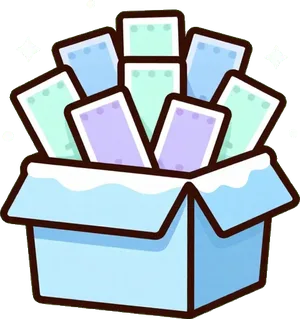
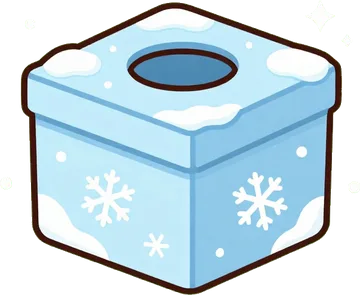
feat(ichiban): opening deal reworked — raffle box shakes in the middle, slides down, tickets burst 1-3 at a time
Claude-Session: https://claude.ai/code/session_01SemYkQLkTmSDDeYUKQcPZG

diff --git a/ichiban/js/desk-deal.js b/ichiban/js/desk-deal.js
@@ -1,19 +1,30 @@
-// 開場動畫(2026-10-02):籤從盒子裡一張一張飛出來排到桌上。全部是純函式。
+// 開場動畫(2026-10-02):抽獎箱搖一搖,籤從洞口一波 1~3 張飛出來排到桌上。全部是純函式。
 //
 // 只是演出,不存任何東西:桌面的最終排列(按鈕位置)在動畫開始前就算好了,
 // 這裡只回答「第幾毫秒、這張籤畫在哪裡」。
 
 export const FLIGHT_MS = 450;   // 每張飛多久
-const GAP_MS = 80;              // 張數少時,一張接一張的間隔
-const LAST_START_MS = 2500;     // 張數多時,最後一張最晚在這時候出發
+export const INTRO_MS = 900;    // 抽獎箱彈出 + 搖一搖,搖完才開始飛(CSS 的 deal-box-in 動畫要對得上)
+// 搖完、開始飛的同時,箱子往下滑到桌面底部,不擋在籤要飛過去的路上(使用者 2026-10-02)。
+// CSS 的 deal-box-down 動畫要對得上(ichiban.css)。
+export const SLIDE_MS = 400;
+const GAP_MS = 180;             // 張數少時,一波接一波的間隔
+const LAST_START_MS = 2500;     // 張數多時,最後一波最晚在搖完後這麼久出發
 const SPIN = 540;               // 飛行途中轉的角度(一圈半)
 
-// 照號碼排出發時間。張數多就縮短間隔,不讓小孩等十幾秒。
-export function dealPlan(slots) {
+// 一波 1~3 張同時從洞口飛出來(使用者:不用排隊,一次飛個 1~3 張),整體照號碼。
+// 張數多就縮短波與波的間隔,不讓小孩等十幾秒。rng 給測試固定用。
+export function dealPlan(slots, rng = Math.random) {
   const sorted = [...slots].sort((a, b) => a.no - b.no);
-  const n = sorted.length;
-  const gap = n > 1 ? Math.min(GAP_MS, LAST_START_MS / (n - 1)) : 0;
-  return sorted.map((s, i) => ({ ...s, start: Math.round(i * gap), duration: FLIGHT_MS }));
+  const waves = [];
+  for (let i = 0; i < sorted.length;) {
+    const size = 1 + Math.min(2, Math.floor(rng() * 3));
+    waves.push(sorted.slice(i, i + size));
+    i += size;
+  }
+  const gap = waves.length > 1 ? Math.min(GAP_MS, LAST_START_MS / (waves.length - 1)) : 0;
+  return waves.flatMap((wave, w) =>
+    wave.map(s => ({ ...s, start: Math.round(INTRO_MS + w * gap), duration: FLIGHT_MS })));
 }
 
 export function dealLength(plan) {
@@ -22,7 +33,7 @@ export function dealLength(plan) {
 
 const easeOut = t => 1 - (1 - t) ** 3;
 
-// t = 0 在盒口(很小),t = 1 落在格子裡(全尺寸、停在自己的歪斜角度)。
+// t = 0 在箱子的洞口(很小),t = 1 落在格子裡(全尺寸、停在自己的歪斜角度)。
 // 位置走拋物線:先往上彈再落下,彈多高跟飛多遠有關。
 export function flightAt(t, from, to, tilt) {
   const p = Math.min(1, Math.max(0, t));
@@ -36,4 +47,12 @@ export function flightAt(t, from, to, tilt) {
     scale: 0.25 + 0.75 * e,
     rot: tilt + (1 - e) * SPIN,
   };
+}
+
+// 箱子(洞口)在第 ms 毫秒的 y:搖的時候在 midY,開始飛之後 SLIDE_MS 內滑到 bottomY。
+// 籤從「出發那一刻」箱子洞口的位置飛出去。
+export function boxYAt(ms, midY, bottomY) {
+  const p = Math.min(1, Math.max(0, (ms - INTRO_MS) / SLIDE_MS));
+  const e = 1 - (1 - p) ** 2;
+  return midY + (bottomY - midY) * e;
 }

diff --git a/test/ichiban-deal.test.js b/test/ichiban-deal.test.js
@@ -1,26 +1,39 @@
 import test from 'node:test';
 import assert from 'node:assert/strict';
-import { dealPlan, flightAt, dealLength, FLIGHT_MS } from '../ichiban/js/desk-deal.js';
+import { dealPlan, flightAt, dealLength, boxYAt, FLIGHT_MS, INTRO_MS, SLIDE_MS } from '../ichiban/js/desk-deal.js';
 
 const slots = n => Array.from({ length: n }, (_, i) => ({ no: n - i }));   // 故意倒著給
 
-test('dealPlan:照號碼一張一張出發,張數少時間隔 80ms', () => {
-  const plan = dealPlan(slots(5));
-  assert.deepEqual(plan.map(p => p.no), [1, 2, 3, 4, 5]);
-  assert.deepEqual(plan.map(p => p.start), [0, 80, 160, 240, 320]);
+// 依序回傳給定的值,讓「每波幾張」可以預測
+const fixed = (...vals) => { let i = 0; return () => vals[i++ % vals.length]; };
+
+test('dealPlan:先搖箱子,再一波一波飛;每波 1~3 張同時出發,照號碼', () => {
+  // rng 0 → 1 張、0.5 → 2 張、0.99 → 3 張
+  const plan = dealPlan(slots(6), fixed(0, 0.5, 0.99));
+  assert.deepEqual(plan.map(p => p.no), [1, 2, 3, 4, 5, 6]);
+  const starts = plan.map(p => p.start);
+  assert.equal(starts[0], INTRO_MS, '搖完箱子才開始飛');
+  assert.equal(starts[1], starts[2], '第二波 2 張同時');
+  assert.ok(starts[1] > starts[0]);
+  assert.ok(starts[3] === starts[4] && starts[4] === starts[5], '第三波 3 張同時');
   assert.ok(plan.every(p => p.duration === FLIGHT_MS));
 });
 
-test('dealPlan:張數多就縮短間隔,最後一張 2.5 秒內出發', () => {
-  const plan = dealPlan(slots(150));
-  assert.ok(plan.at(-1).start <= 2500);
-  assert.ok(plan[1].start < 80);
-  assert.ok(dealLength(plan) <= 2500 + FLIGHT_MS);
+test('dealPlan:每波一定是 1~3 張', () => {
+  const plan = dealPlan(slots(60), Math.random);
+  const sizes = Object.values(plan.reduce((m, p) => ({ ...m, [p.start]: (m[p.start] ?? 0) + 1 }), {}));
+  assert.ok(sizes.every(n => n >= 1 && n <= 3), sizes.join());
+});
+
+test('dealPlan:張數多就縮短間隔,最後一波在搖完後 2.5 秒內出發', () => {
+  const plan = dealPlan(slots(150), fixed(0));
+  assert.ok(plan.at(-1).start <= INTRO_MS + 2500);
+  assert.ok(dealLength(plan) <= INTRO_MS + 2500 + FLIGHT_MS);
 });
 
 test('dealPlan:0 張、1 張都不會爆', () => {
   assert.deepEqual(dealPlan([]), []);
-  assert.equal(dealPlan(slots(1))[0].start, 0);
+  assert.equal(dealPlan(slots(1))[0].start, INTRO_MS);
   assert.equal(dealLength([]), 0);
 });
 
@@ -43,4 +56,14 @@ test('flightAt:中途往上彈(比直線高),而且在轉', () => {
 test('flightAt:t 超出 0~1 會夾住', () => {
   const from = { x: 0, y: 0 }, to = { x: 10, y: 10 };
   assert.deepEqual(flightAt(2, from, to, 1), flightAt(1, from, to, 1));
+});
+
+test('boxYAt:搖箱子時在中間,開始飛就往下滑到底部,不擋籤的路', () => {
+  const mid = 300, bottom = 600;
+  assert.equal(boxYAt(0, mid, bottom), mid);
+  assert.equal(boxYAt(INTRO_MS, mid, bottom), mid);
+  const half = boxYAt(INTRO_MS + SLIDE_MS / 2, mid, bottom);
+  assert.ok(half > mid && half < bottom);
+  assert.equal(boxYAt(INTRO_MS + SLIDE_MS, mid, bottom), bottom);
+  assert.equal(boxYAt(99999, mid, bottom), bottom);
 });

diff --git a/ichiban/js/ui.js b/ichiban/js/ui.js
@@ -5,7 +5,7 @@ import { remaining, needsRebuild, entriesChanged } from '../../shared/js/roster.
 import { createDialogShell } from '../../shared/js/dialog.js';
 import { sfx } from '../../shared/js/sound.js';
 import { faceColorFor, critterFor, tiltFor, layoutDesk } from './desk-layout.js';
-import { dealPlan, dealLength, flightAt } from './desk-deal.js';
+import { dealPlan, dealLength, flightAt, boxYAt } from './desk-deal.js';
 import { loadCardArt, drawFace, traceTicket } from './card-art.js';
 
 // 最後一抽賞永遠是金色,不看賞別 —— 它是額外加碼的驚喜,不是某個賞別的籤。
@@ -124,7 +124,8 @@ export function createDeskView({ deskEl, pileEl, canvasEl, boxEl, emptyStateEl, 
       if (flight) {
         const t = (elapsed - flight.start) / flight.duration;
         if (t <= 0) continue;                    // 還在盒子裡
-        if (t < 1) at = flightAt(t, dealing.from, to, tiltFor(s.no));
+        const from = { x: dealing.holeX, y: boxYAt(flight.start, dealing.holeMid, dealing.holeBottom) };
+        if (t < 1) at = flightAt(t, from, to, tiltFor(s.no));
       }
       ctx.save();
       ctx.translate(at.x, at.y);
@@ -135,10 +136,10 @@ export function createDeskView({ deskEl, pileEl, canvasEl, boxEl, emptyStateEl, 
     }
   }
 
-  /* ---------- 開場動畫:籤從盒子裡一張一張飛出來 ---------- */
+  /* ---------- 開場動畫:抽獎箱搖一搖,籤從洞口一波一波飛出來 ---------- */
   // 只是演出:按鈕已經在最終位置,canvas 照時間表把籤畫在飛行途中。
   // 播放中按鈕不能點,點桌面任何地方就直接全部排好。
-  let dealing = null;   // { plan: Map(no → { start, duration }), t0, length, from, armed }
+  let dealing = null;   // { plan: Map(no → { start, duration }), t0, length, holeX/Mid/Bottom, armed }
 
   function deal(next) {
     render(next);
@@ -151,13 +152,15 @@ export function createDeskView({ deskEl, pileEl, canvasEl, boxEl, emptyStateEl, 
     });
     if (!visible.length) return;
     const plan = dealPlan(visible);
-    const boxH = boxEl.offsetHeight || 100;
+    const boxH = boxEl.offsetHeight || 100;   // 抽獎箱在桌面正中央(css .deal-box)
     dealing = {
       plan: new Map(plan.map(p => [p.no, p])),
       t0: performance.now(),
       length: dealLength(plan),
-      // 盒口:桌面下方中央,盒子上緣往下一點(籤從盒子後面冒出來)
-      from: { x: deskEl.clientWidth / 2, y: h - boxH * 0.65 },
+      // 抽獎箱頂面的圓洞:先在桌面正中央,開始飛時滑到底部(css .deal-box 的 top 要對得上)
+      holeX: deskEl.clientWidth / 2,
+      holeMid: h / 2 - boxH * 0.28,
+      holeBottom: h - 8 - boxH / 2 - boxH * 0.28,
       // 觸發動畫的那一下點擊(「重新鋪一桌」在桌面裡)會冒泡到桌面;下一幀才開始接受「點一下跳過」
       armed: false,
     };

diff --git a/ichiban/css/ichiban.css b/ichiban/css/ichiban.css
@@ -54,27 +54,40 @@ body {
   height: 100%;
   pointer-events: none;
 }
-/* 開場動畫的籤盒(js/ui.js deal):彈出 → 籤飛完 → 往下沉、淡出。
-   疊在桌面上面:籤剛飛出來時會被盒子前緣擋住一點,像從盒子裡冒出來。 */
+/* 開場動畫的抽獎箱(js/ui.js deal):在桌面正中央彈出 → 搖一搖 → 往下滑到底部,
+   籤從頂面的洞飛出來 → 籤都落位後縮小、淡出。彈出 + 搖的總長要等於 desk-deal.js 的 INTRO_MS(0.9 秒)。
+   疊在桌面上面:籤剛從洞口冒出來時會被箱子擋住一點,像從裡面彈出來。 */
 .deal-box {
   position: absolute;
   left: 50%;
-  bottom: 6px;
+  top: 50%;
   z-index: 2;
-  width: min(150px, 38vw);
+  width: min(180px, 46vw);
   height: auto;
-  translate: -50% 0;
+  translate: -50% -50%;
   pointer-events: none;
 }
-.deal-box.is-in { animation: deal-box-in .35s cubic-bezier(.34, 1.4, .64, 1) both; }
-.deal-box.is-out { animation: deal-box-out .45s ease-in both; }
+/* 彈出 + 搖(0.9s = INTRO_MS)→ 往下滑到底部(0.4s = SLIDE_MS),讓出籤要飛的路 */
+.deal-box.is-in { animation: deal-box-in .9s ease-out both, deal-box-down .4s .9s ease-out both; }
+.deal-box.is-out { top: calc(100% - 8px - min(180px, 46vw) * .41); animation: deal-box-out .4s ease-in both; }
 @keyframes deal-box-in {
-  from { transform: translateY(60%) scale(.6); opacity: 0; }
-  to { transform: none; opacity: 1; }
+  0% { transform: scale(.4); opacity: 0; }
+  30% { transform: scale(1.06); opacity: 1; }
+  38% { transform: scale(1) rotate(0); }
+  50% { transform: rotate(-9deg); }
+  62% { transform: rotate(8deg); }
+  74% { transform: rotate(-6deg); }
+  86% { transform: rotate(4deg); }
+  100% { transform: rotate(0); opacity: 1; }
+}
+@keyframes deal-box-down {
+  from { top: 50%; }
+  /* 底部:箱子高約寬的 0.82 倍,置中錨點在一半 → 離底 8px */
+  to { top: calc(100% - 8px - min(180px, 46vw) * .41); }
 }
 @keyframes deal-box-out {
   from { transform: none; opacity: 1; }
-  to { transform: translateY(70%); opacity: 0; }
+  to { transform: scale(.5); opacity: 0; }
 }
 .pile {
   display: grid;

diff --git a/ichiban/index.html b/ichiban/index.html
@@ -30,7 +30,7 @@
        點擊、焦點、螢幕閱讀器交給疊在上面的透明按鈕(#pile)。 -->
   <canvas class="desk-canvas" id="deskCanvas" aria-hidden="true"></canvas>
   <!-- 開場動畫的籤盒:籤從這裡飛出來排到桌上,排好就沉下去藏起來 -->
-  <img class="deal-box" id="dealBox" src="img/box.webp?v=e9dffec9" alt="" aria-hidden="true" hidden>
+  <img class="deal-box" id="dealBox" src="img/box.webp?v=d9fccc79" alt="" aria-hidden="true" hidden>
   <div class="desk" id="desk">
     <div class="pile" id="pile"></div>
 

diff --git a/test/ichiban-desk.test.js b/test/ichiban-desk.test.js
@@ -185,7 +185,7 @@ test('開場動畫:播放中按鈕不能點、盒子出現;播完恢復', async 
     assert.equal(pileEl.style.pointerEvents, 'none');
     assert.equal(boxEl.hidden, false);
     assert.equal(desk.isDealing, true);
-    for (let i = 0; i < 40; i++) tick(50);
+    for (let i = 0; i < 80; i++) tick(50);   // 搖箱子 0.9 秒 + 最多 5 波 + 飛行,4 秒一定播完
     assert.equal(desk.isDealing, false);
     assert.equal(pileEl.style.pointerEvents, '');
   });

diff --git a/tools/mascot-gen/ichiban.py b/tools/mascot-gen/ichiban.py
@@ -8,6 +8,7 @@
   $PY tools/mascot-gen/ichiban.py build                   # 輸出 ichiban/img/*.webp、蓋 ?v=、重產 preload.json
   $PY tools/mascot-gen/ichiban.py gen empty --seeds 11,22,33,44,55,66   # 「抽完了」插圖(綠幕)
   $PY tools/mascot-gen/ichiban.py pick empty 3 && $PY tools/mascot-gen/ichiban.py build-empty
+  $PY tools/mascot-gen/ichiban.py gen raffle --seeds ... && pick raffle 3 && build-box   # 開場動畫的抽獎箱
 """
 import argparse
 import json
@@ -45,7 +46,7 @@ def save_cfg(cfg):
 
 
 def prompt_for(cfg, name):
-    if name in ('empty', 'box'):   # 同一個籤盒:空的(抽完了)/ 裝滿的(開場動畫)
+    if name in ('empty', 'raffle'):   # 同一個抽獎箱:開場動畫(raffle)/ 抽完了(empty,前面散著撕開的籤)
         return f'{cfg["empty_style"]}, {cfg[name]}', cfg['empty_negative'], 768, 640
     return f'{cfg["stamp_style"]}, {cfg[name]}', cfg['stamp_negative'], 768, 768
 
@@ -88,12 +89,16 @@ def cmd_build_empty(args):
     print('empty done')
 
 
+BOX_W = 360   # 開場動畫的抽獎箱在畫面中央,約 180px 寬(2x)
+
+
 def cmd_build_box(args):
-    pick = load_cfg().get('picks', {}).get('box')
+    # 開場動畫的抽獎箱(2026-10-02 使用者選 raffle s3:上面一個圓洞,籤從洞口飛出來)
+    pick = load_cfg().get('picks', {}).get('raffle')
     if not pick:
-        sys.exit('還沒 pick box')
+        sys.exit('還沒 pick raffle')
     path = IMG / 'box.webp'
-    webp(cut_empty(OUT / 'box' / f's{pick["n"]}.png', width=300), path, q=82)   # 畫面上約 150px
+    webp(cut_empty(OUT / 'raffle' / f's{pick["n"]}.png', width=BOX_W), path, q=82)
     INDEX.write_text(stamp(INDEX.read_text(), 'img/box.webp', content_hash(path)))
     write_preload_manifest()
     print('box done')
@@ -101,7 +106,7 @@ def cmd_build_box(args):
 
 def cmd_review(args):
     # 每個候選烘成跟正式版一樣的格式,review/ichiban.html 把它們畫在冷色票卡上比較
-    for scene in ('empty', 'box'):
+    for scene in ('empty', 'raffle'):
         for src in sorted((OUT / scene).glob('s*.png')):
             dst = REVIEW / scene / f'{src.stem}.png'
             dst.parent.mkdir(parents=True, exist_ok=True)
@@ -142,9 +147,9 @@ COMMANDS = {'gen': cmd_gen, 'review': cmd_review, 'pick': cmd_pick, 'build': cmd
 def main():
     ap = argparse.ArgumentParser()
     sub = ap.add_subparsers(dest='cmd', required=True)
-    g = sub.add_parser('gen'); g.add_argument('name', choices=NAMES + ['empty', 'box']); g.add_argument('--seeds', help='逗號分隔,例如 44,55,66')
+    g = sub.add_parser('gen'); g.add_argument('name', choices=NAMES + ['empty', 'raffle']); g.add_argument('--seeds', help='逗號分隔,例如 44,55,66')
     sub.add_parser('review')
-    p = sub.add_parser('pick'); p.add_argument('name', choices=NAMES + ['empty', 'box']); p.add_argument('n', type=int)
+    p = sub.add_parser('pick'); p.add_argument('name', choices=NAMES + ['empty', 'raffle']); p.add_argument('n', type=int)
     sub.add_parser('build')
     sub.add_parser('build-empty')
     sub.add_parser('build-box')
